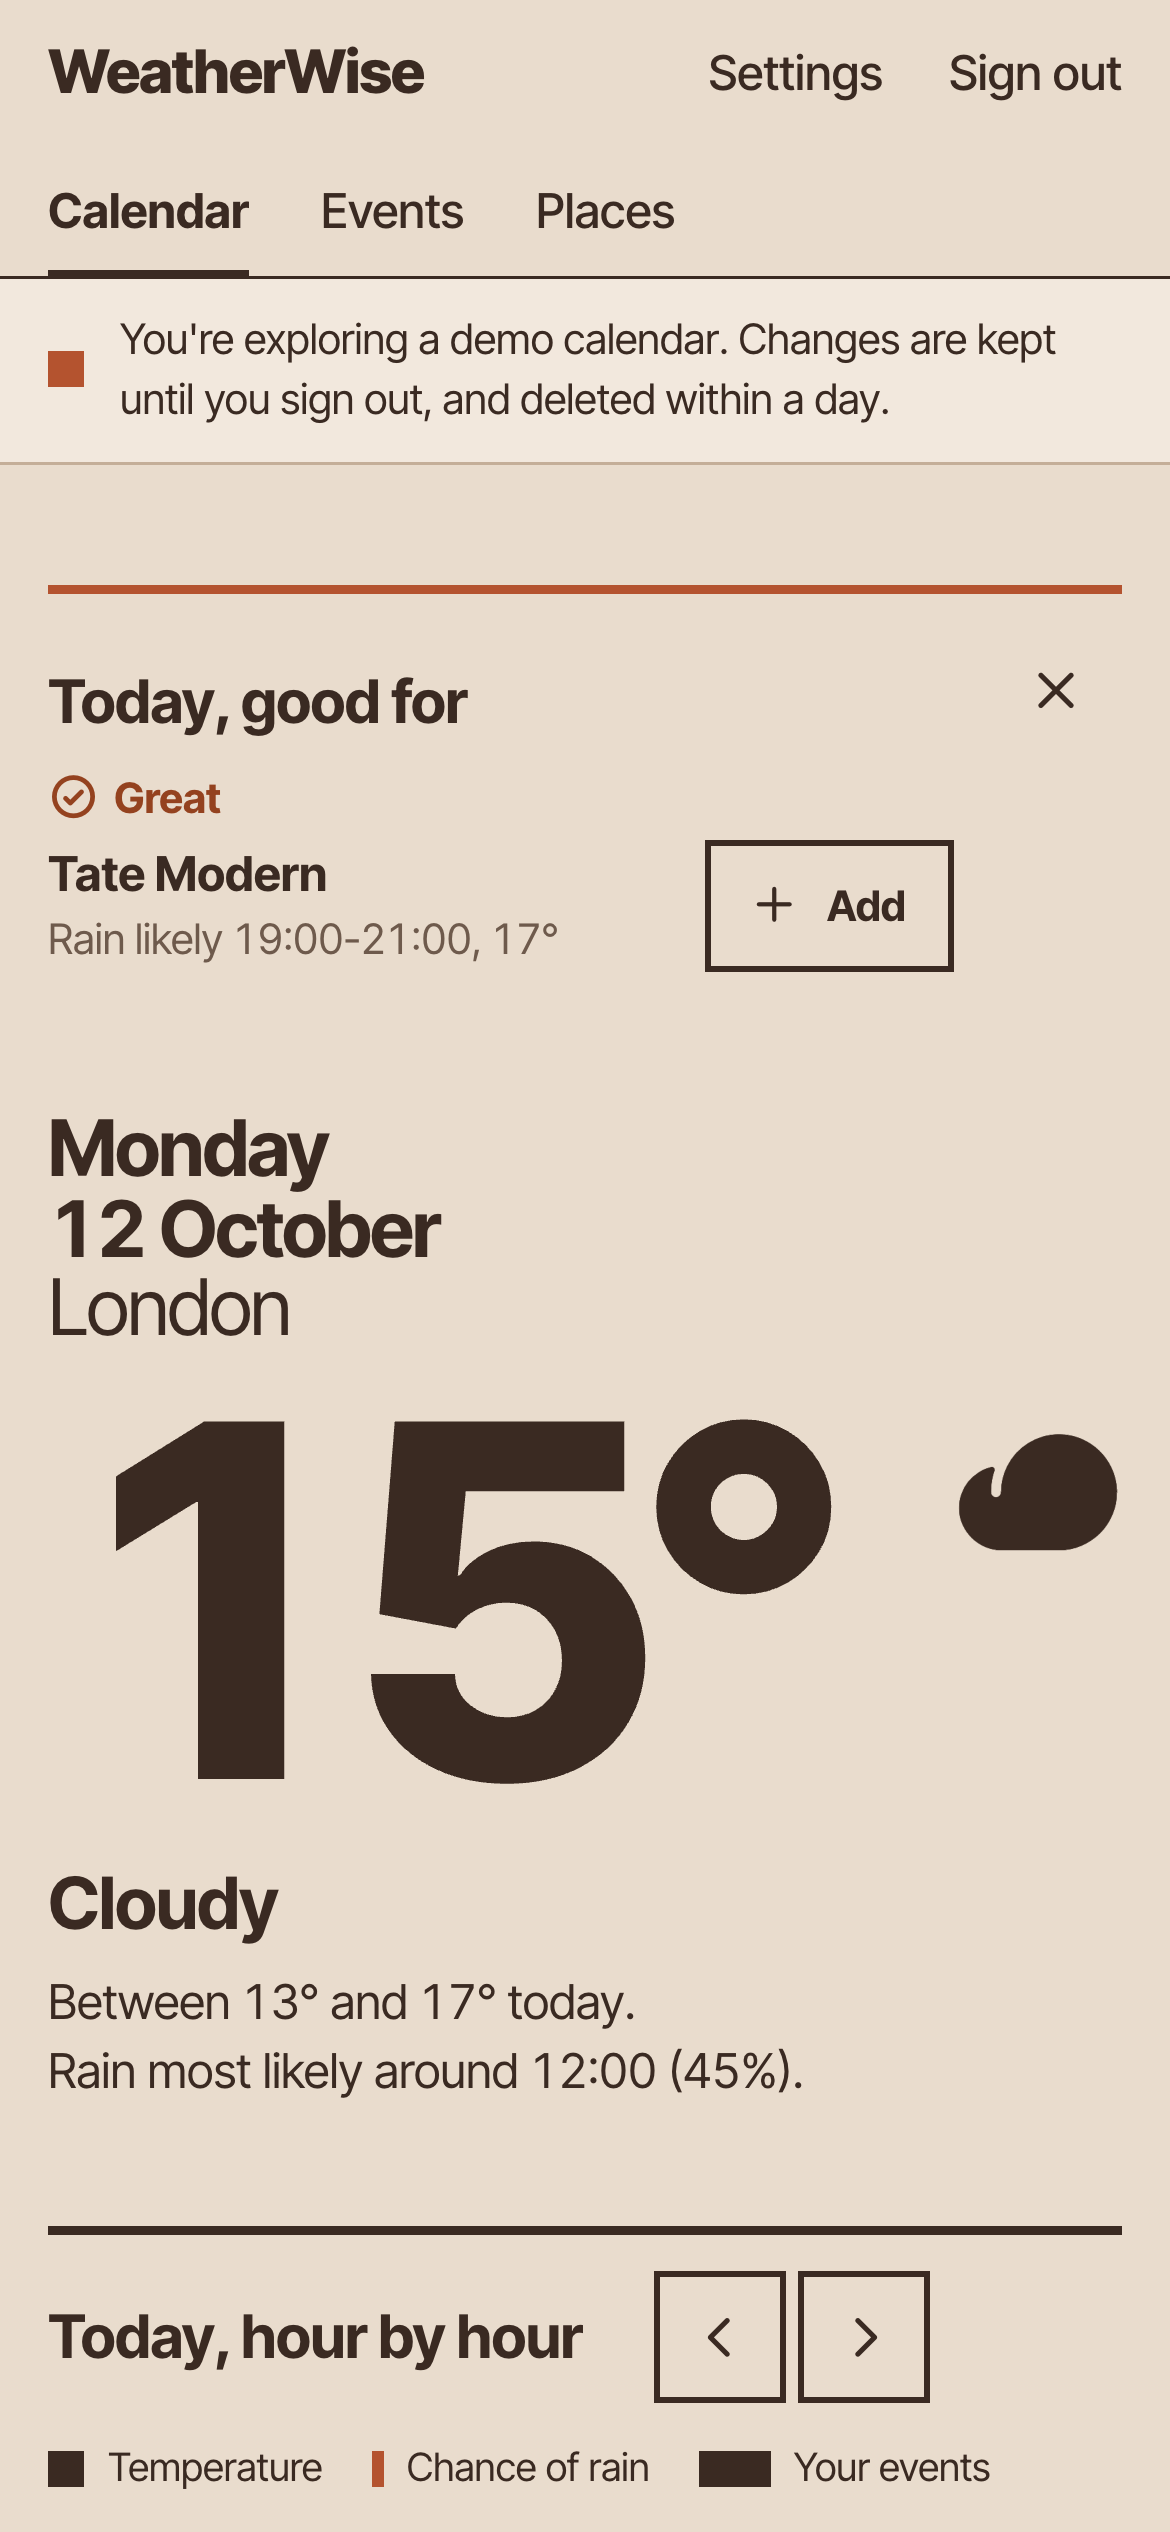
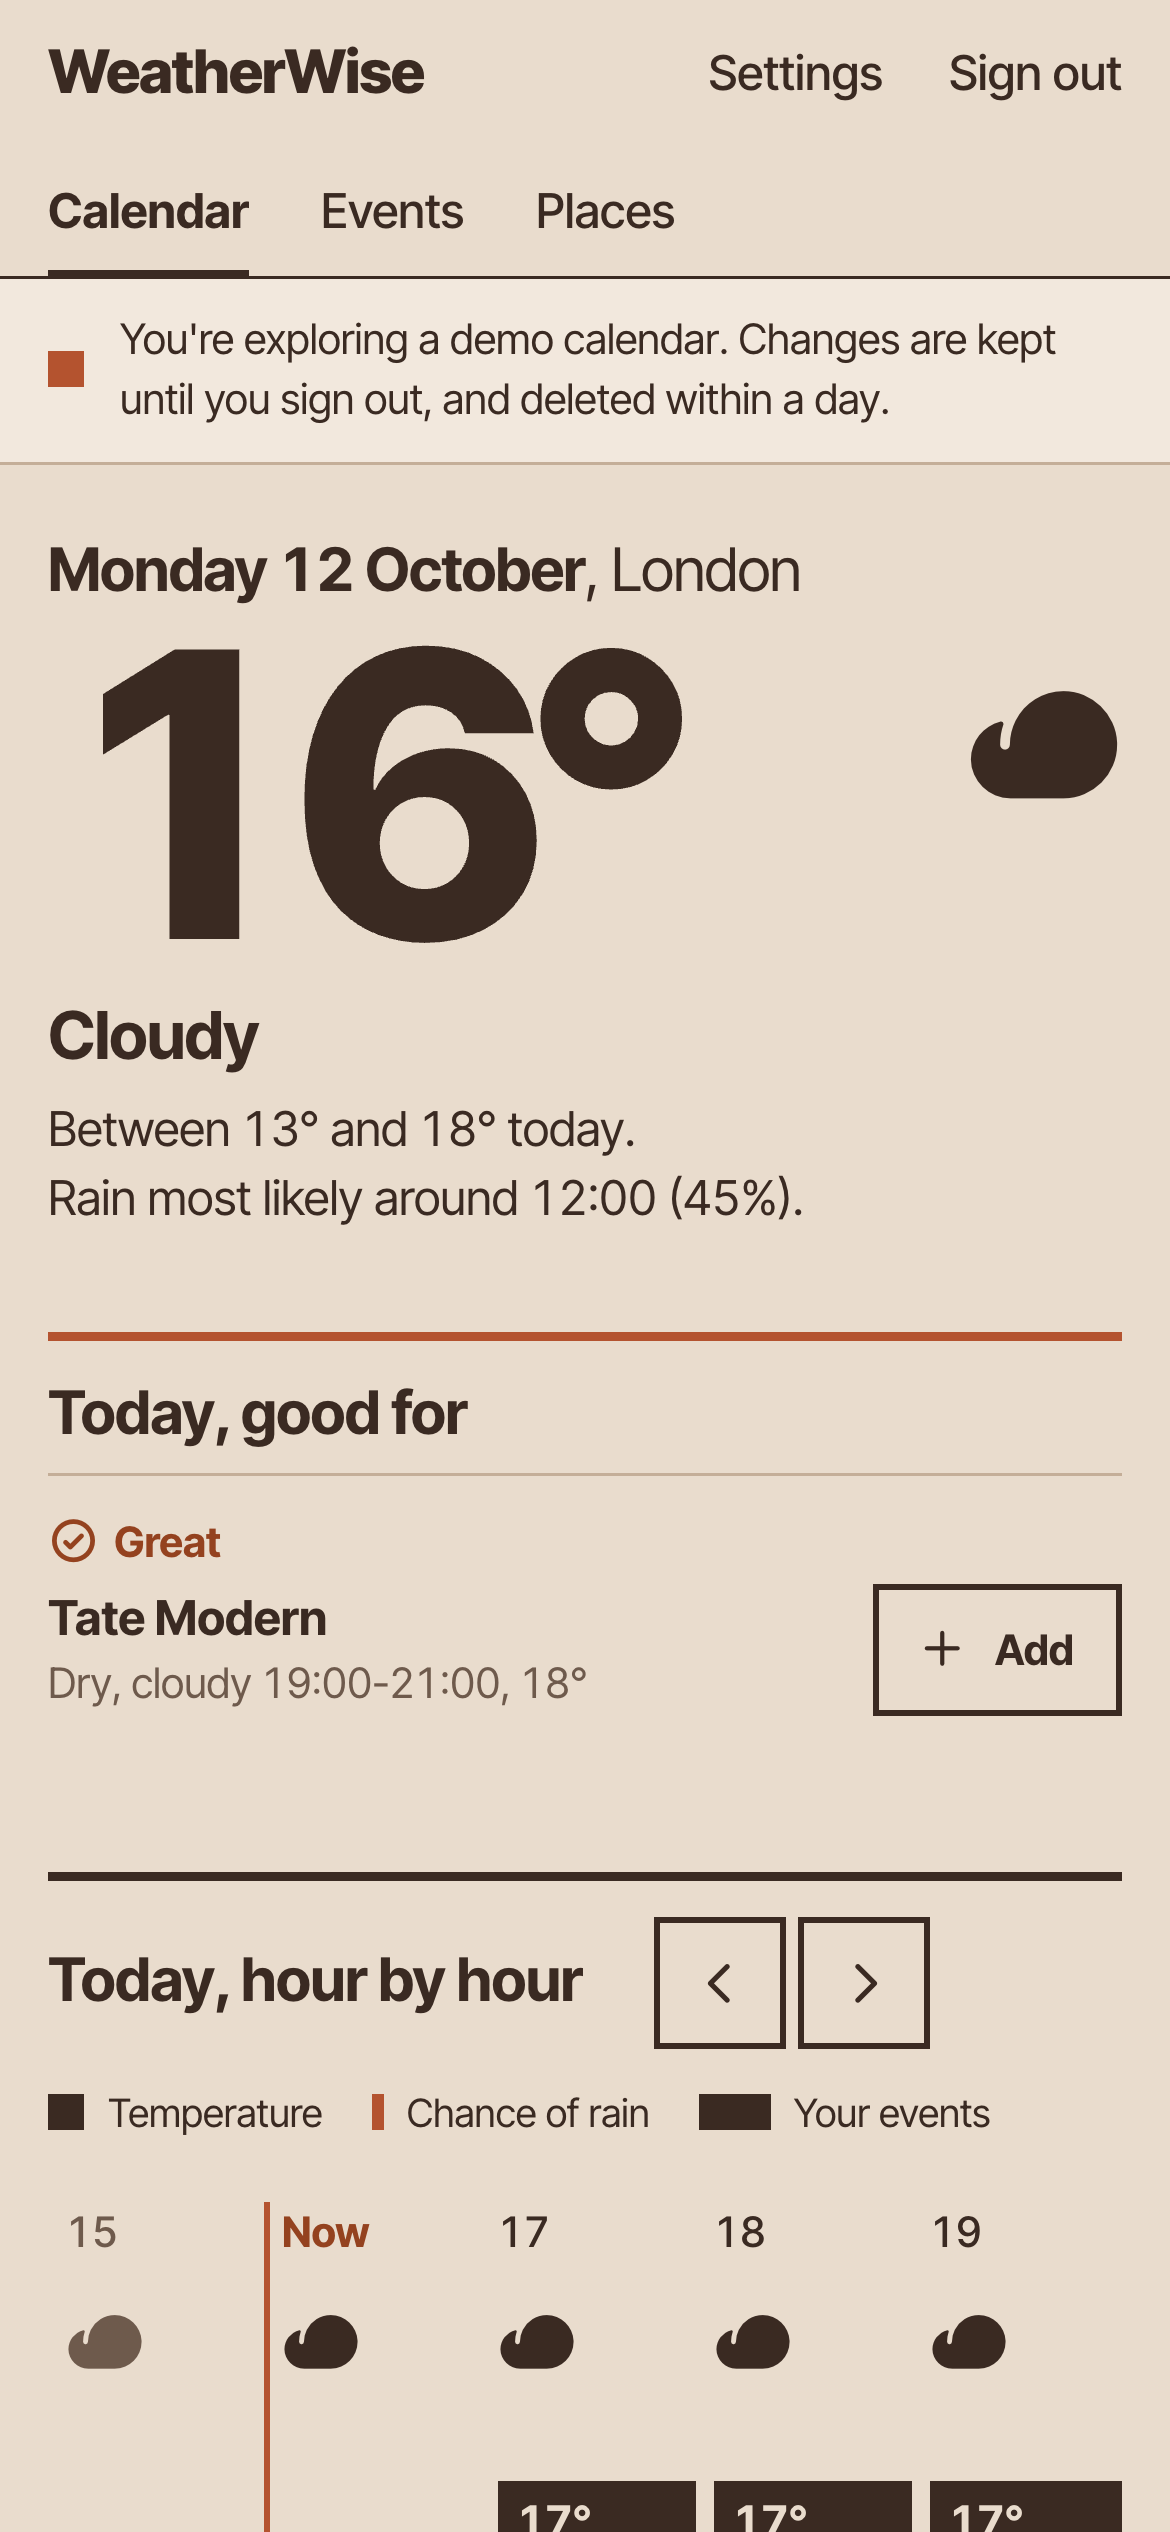
Docs: today beside the weather, Add opens the form, great fits only

diff --git a/README.md b/README.md
@@ -15,13 +15,13 @@ A personal calendar with London's weather beside it, so you can plan around the 
 - **The month:** daily weather and UK public holidays on every day, with your events. Choose any day to open its forecast, events and suggestions.
 - **Events:** add, change and delete events from one page.
 - **Places:** keep the places you like (parks, museums, cafés...) with the weather each one suits and, if you like, a temperature range. Pin them on a map by address search or by clicking, and open any of them in Google Maps.
-- **Suggestions:** your places are matched against the 16-day forecast, hour by hour, to find the best time for a visit: today's best fit at the top of the calendar, the good days ahead below the hours, a ✓ on good days in the month. One click turns a suggestion into an event, with Undo.
+- **Suggestions:** your places are matched against the 16-day forecast, hour by hour, to find the best time for a visit. What today is good for sits beside today's weather, and a ✓ marks good days in the month. **Add** on a suggestion opens the event form filled in, to change anything before saving.
 - **Settings:** which days to get suggestions for (every day, weekends, or chosen days), the hours to search on weekdays and at weekends, and whether to skip days that already have plans.
 - **Accounts:** sign in with Google; each person has their own private calendar and places.
 
 ## Screenshots
 
-**Today, hour by hour.** The current weather and the day's range, then each hour's temperature and chance of rain, with today's events along the same hours.
+**Today.** The current weather and the day's range, with what today is good for beside it; then each hour's temperature and chance of rain, with today's events along the same hours.
 
 ![Home page: today's weather, the hourly temperature and rain chart, and today's events](docs/screenshots/home.png)
 
@@ -29,11 +29,7 @@ A personal calendar with London's weather beside it, so you can plan around the 
 
 ![The month: daily weather icons, events and good-day marks, with today highlighted](docs/screenshots/month.png)
 
-**Good days ahead.** The coming days that suit your places, with the best time and how sure the forecast is.
-
-![Good days ahead: each coming day with its weather, the best time and the places that suit it](docs/screenshots/good-days.png)
-
-**A day, opened from the month.** Its weather, your events, and the places that suit it, each with the best time and one-click Add.
+**A day, opened from the month.** Its weather, your events, and the places that are a great fit, each with the best time and an Add button.
 
 ![A day's panel: weather, events and suggestions with Add buttons](docs/screenshots/day.png)
 
@@ -69,7 +65,7 @@ Each forecast day and hour is **sunny**, **dry but cloudy**, **rain likely** or 
 | Snow or storms | – Okay if indoors | ✕ Not ideal |
 
 - A temperature outside the place's range, or strong wind at an outdoor place, lowers the fit a step, and the suggestion says why. Outdoor places don't fit after dark.
-- A place that suits any weather is Okay every day: it's put forward only when nothing fits better, so it never makes every day look good.
+- Only **Great** fits are suggested. A place that suits any weather is Okay every day, so it is never what makes a day good.
 - For each place the best time for a visit of its usual length is searched hour by hour inside your hours (by default weekdays 18:00-21:00 and weekends 09:00-18:00), avoiding the wettest hours.
 - Today only suggests what can still start; a place already planned that day isn't suggested again.
 - Each day says how far the forecast can be trusted: **Likely** (the next 3 days), **Possible** (up to a week), **Early look** (beyond).
